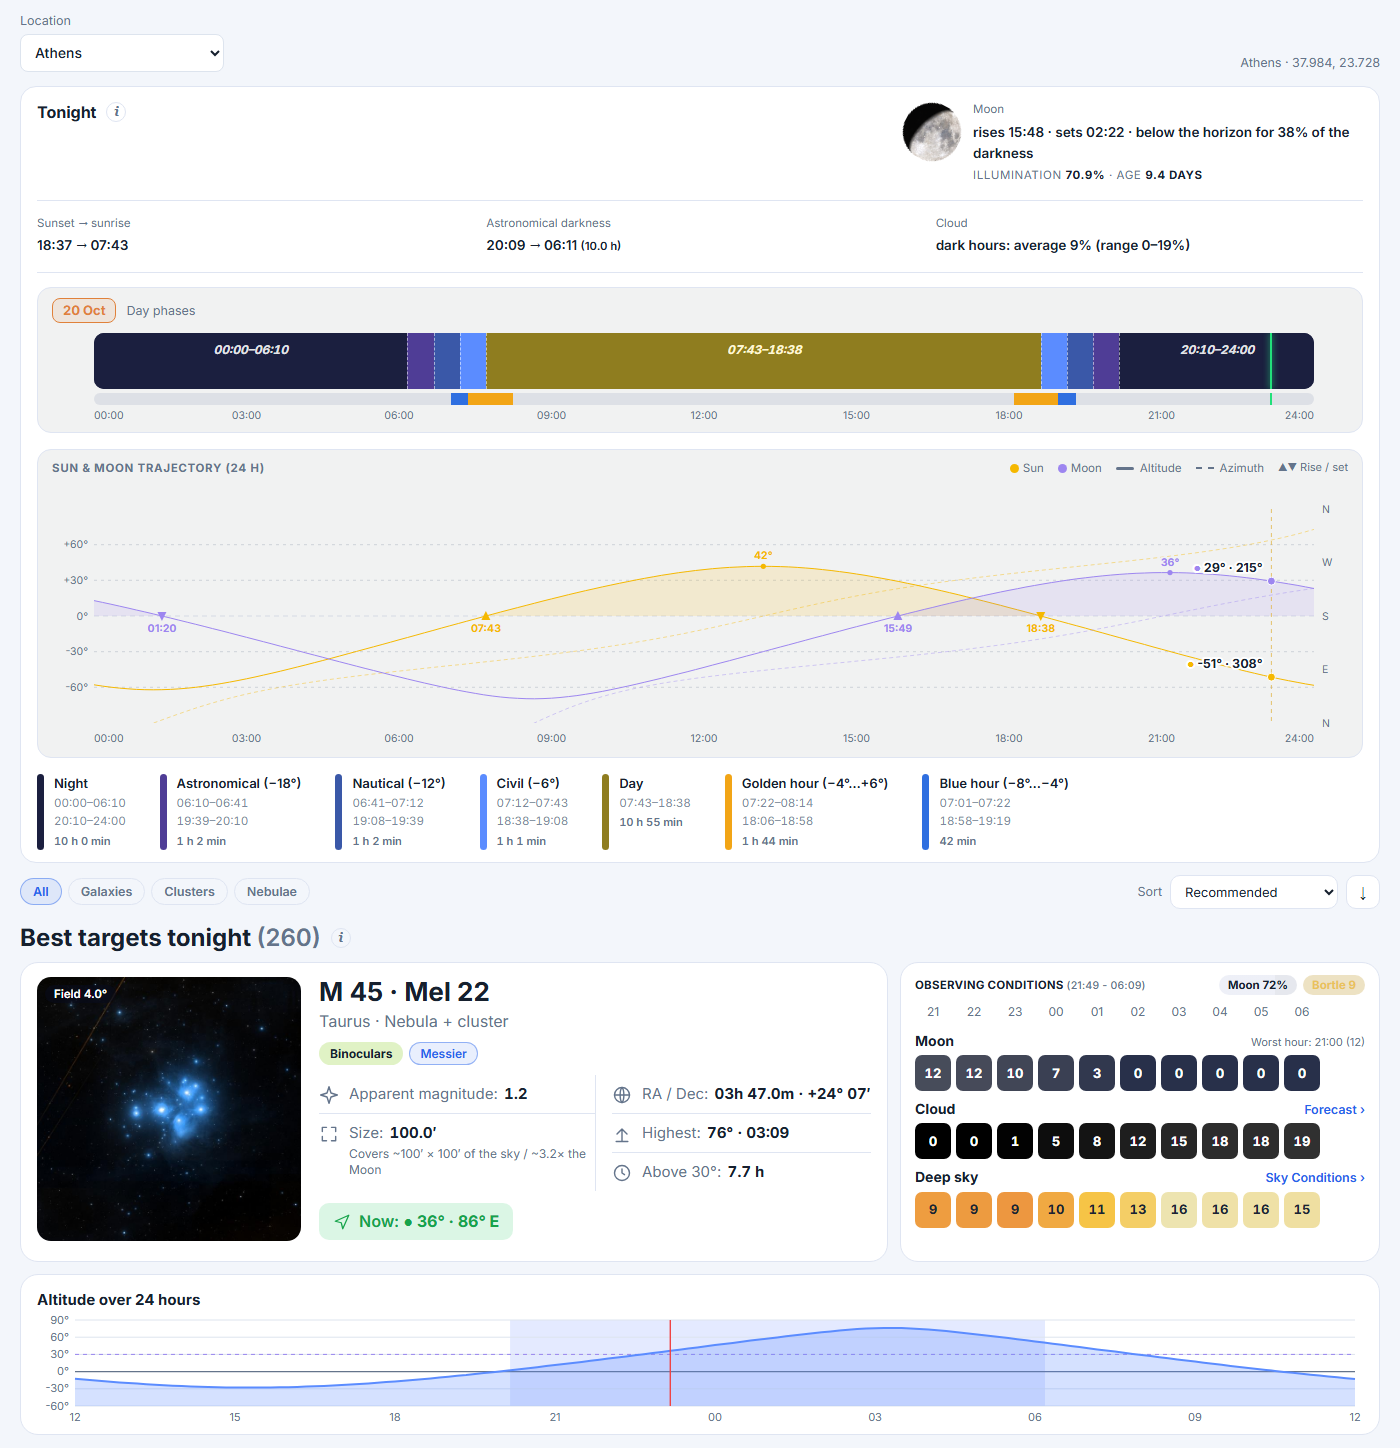
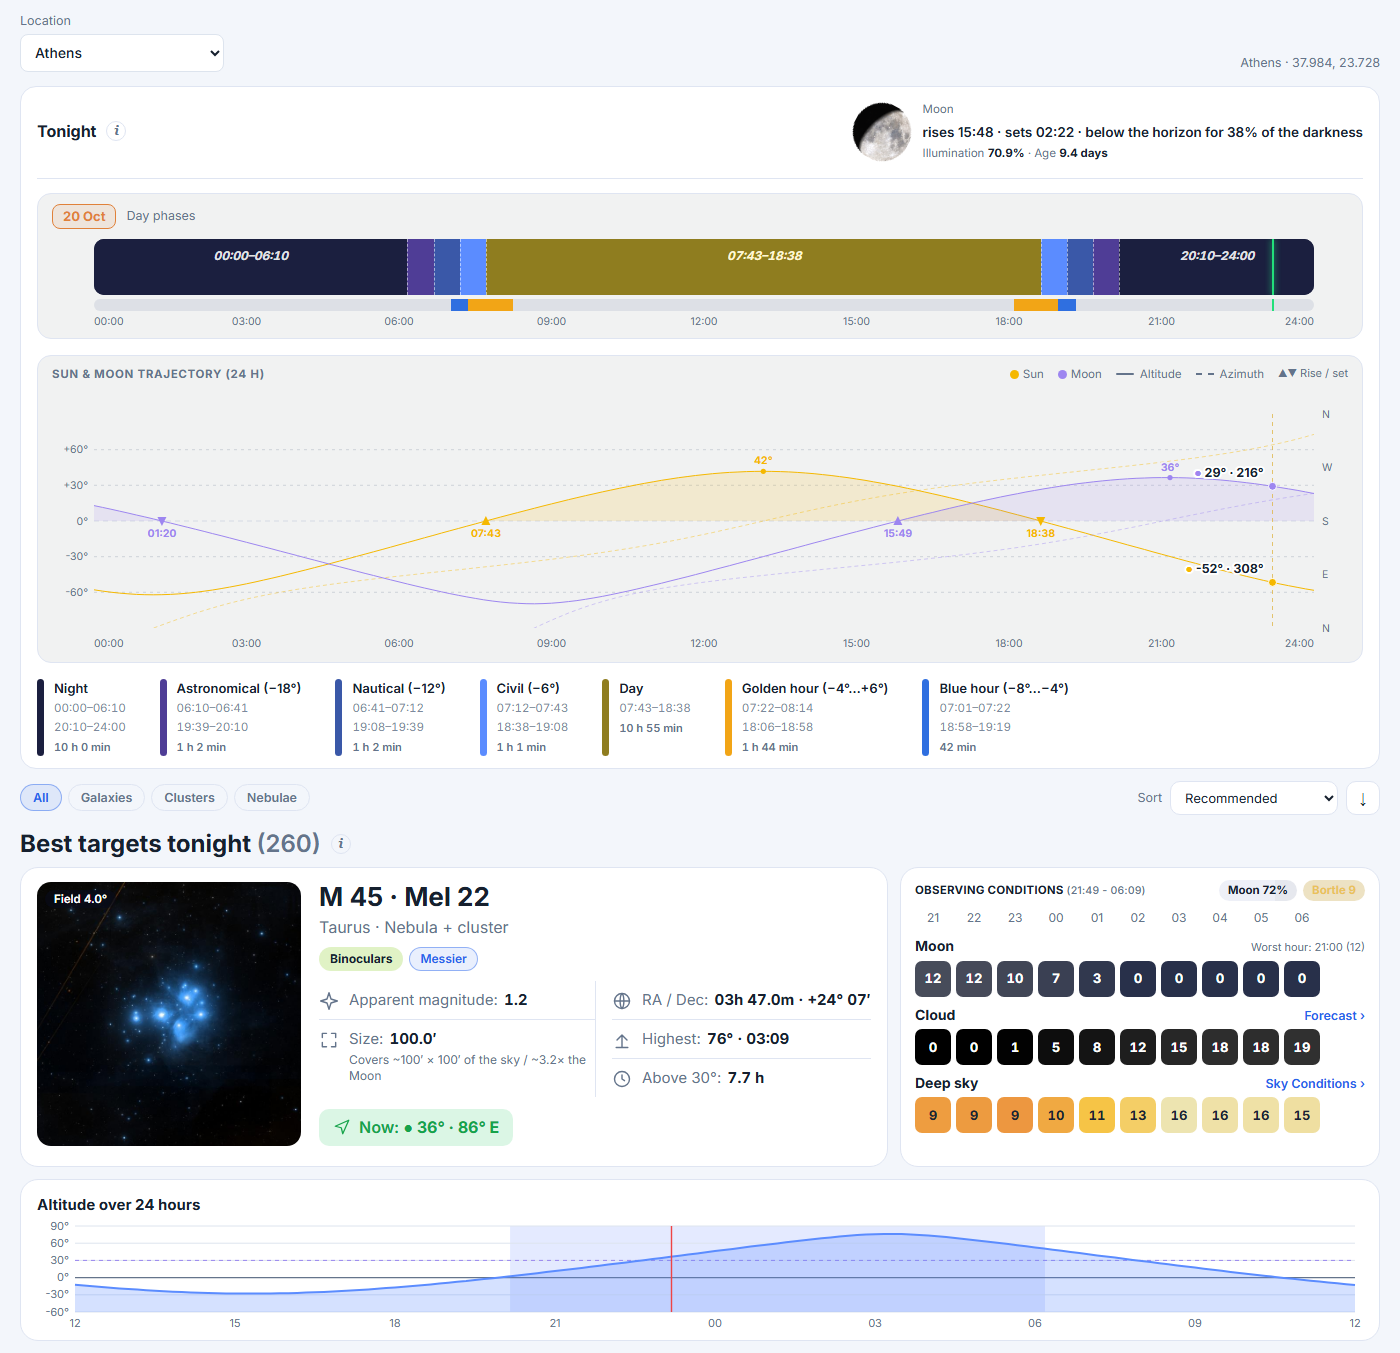
Tonight card: only the Moon row on top, facts row removed

diff --git a/js/dso.js b/js/dso.js
@@ -247,12 +247,7 @@ const Dso = (() => {
         <section class="dl-chart"><h5>${esc(t('dso.d.altchart'))}</h5>${altChart(o, loc, n, cw, ch)}</section></article>`;
     }).join('');
     box.innerHTML = `<section class="card dso-sum"><div class="sum-head"><div class="dso-h"><h2>${esc(t('dso.night.title'))}</h2>${infoBtn('night')}</div><div class="si-moon">${moonWidget(loc)}<div><span>${esc(t('dso.night.moonlbl'))}</span><b>${esc(moon)}</b><small class="mw-st">${esc(t('dso.mw.lit'))} <em>${(S.mv.lit * 100).toFixed(1)}%</em> · ${esc(t('dso.mw.age'))} <em>${S.mv.age.toFixed(1)} ${esc(t('dso.mw.d'))}</em></small></div></div></div>
-<div class="sum-top">
-        <div class="sum-info">
-          <div><span>${esc(t('dso.night.sunlbl'))}</span><b>${hm(n.sunset)} → ${hm(n.sunrise)}</b></div>
-          <div><span>${esc(t(n.partial ? 'dso.night.darkpartial' : 'dso.night.dark'))}</span><b>${hm(n.darkStart)} → ${hm(n.darkEnd)} <small>(${((n.darkEnd - n.darkStart) / 3600e3).toFixed(1)} h)</small></b></div>
-          <div><span>${esc(t('dso.cloudlbl'))}</span><b>${esc(cloudTxt)}</b></div>
-        </div></div>${phasesHtml(loc, N.off)}<p class="dso-note" data-note="night" hidden>${t('dso.night.note')}</p></section>
+${phasesHtml(loc, N.off)}<p class="dso-note" data-note="night" hidden>${t('dso.night.note')}</p></section>
       <div class="dso-bar"><div class="dso-cats" id="dsoCats">${cats.map((k) => `<button type="button" class="chip${S.cat === k ? ' on' : ''}" data-cat="${k}">${esc(t('dso.cat.' + k))}</button>`).join('')}</div>
         <div class="dso-sort"><label><span>${esc(t('dso.sort'))}</span><select id="dsoSort" title="${esc(t('dso.sort.help'))}">${['score', 'now', 'alt', 'size', 'mag'].map((k) => `<option value="${k}"${S.sort === k ? ' selected' : ''}>${esc(t('dso.sort.' + k))}</option>`).join('')}</select></label>
           <button type="button" id="dsoRev" class="chip" title="${esc(t('dso.sort.rev'))}" aria-label="${esc(t('dso.sort.rev'))}">${S.rev ? '↑' : '↓'}</button></div></div>

diff --git a/index.html b/index.html
@@ -9,7 +9,7 @@
 <link rel="preconnect" href="https://fonts.googleapis.com"><link rel="preconnect" href="https://fonts.gstatic.com" crossorigin>
 <link rel="stylesheet" href="https://fonts.googleapis.com/css2?family=Inter:wght@400;500;600;700&display=swap&subset=greek">
 <link rel="stylesheet" href="https://unpkg.com/leaflet@1.9.4/dist/leaflet.css">
-<link rel="stylesheet" href="css/style.css?v=20261141">
+<link rel="stylesheet" href="css/style.css?v=20261142">
 </head>
 <body>
 <header class="topbar">
@@ -252,11 +252,11 @@
 <footer data-i18n-html="footer.html"></footer>
 
 <script src="https://unpkg.com/leaflet@1.9.4/dist/leaflet.js"></script>
-<script src="js/i18n.js?v=20261141"></script>
-<script src="js/icons.js?v=20261141"></script>
-<script src="js/app.js?v=20261141"></script>
-<script src="js/astro.js?v=20261141"></script>
-<script src="js/sunset.js?v=20261141"></script>
-<script src="js/dso.js?v=20261141"></script>
+<script src="js/i18n.js?v=20261142"></script>
+<script src="js/icons.js?v=20261142"></script>
+<script src="js/app.js?v=20261142"></script>
+<script src="js/astro.js?v=20261142"></script>
+<script src="js/sunset.js?v=20261142"></script>
+<script src="js/dso.js?v=20261142"></script>
 </body>
 </html>

diff --git a/css/style.css b/css/style.css
@@ -1049,3 +1049,6 @@ select, input[type=text], input[type=number], input[type=search] { font: inherit
 .sum-info { grid-template-columns: repeat(3, minmax(0, 1fr)); margin-top: 14px; }
 @media (max-width: 700px) { .sum-info { grid-template-columns: 1fr; } .sum-head .si-moon { max-width: none; } }
 .sum-head .mw-st { text-transform: none; letter-spacing: 0; justify-content: flex-start; width: auto; }
+
+.sum-head { align-items: center; } .sum-head .si-moon { flex: 1; max-width: none; justify-content: flex-end; }
+@media (max-width: 700px) { .sum-head .si-moon { justify-content: flex-start; } }
